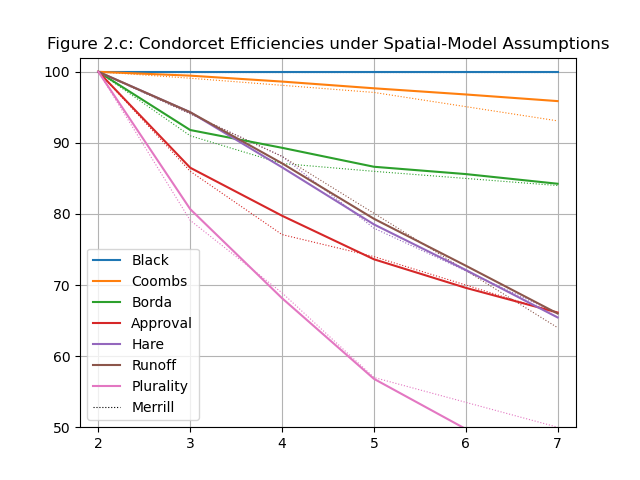
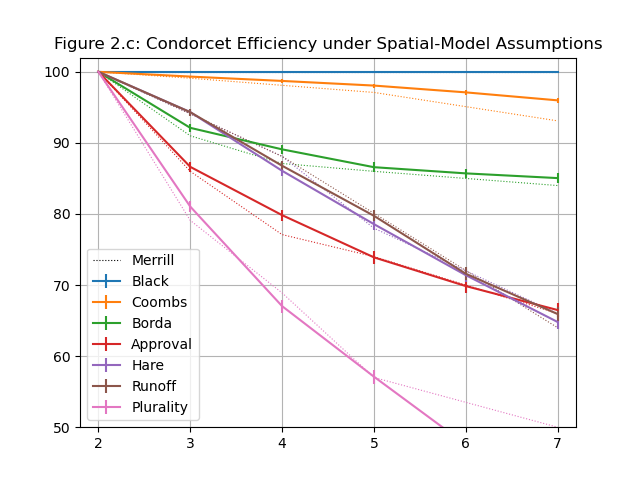
Convert error from absolute to relative
proportion_ci outputs absolute values, but plt.errorbar requires
values relative to the original data.

Update results images

diff --git a/examples/merrill_1984_fig_2c_2d.py b/examples/merrill_1984_fig_2c_2d.py
@@ -142,10 +142,14 @@ for fig, disp, ymin, orig in (('2.c', 1.0, 50, merrill_fig_2c),
                    'Plurality'):
         x, y = zip(*sorted(count[method].items()))
         CE = np.array(y)/y_cw
+
+        # Add 95% confidence interval error bars (Clopper-Pearson exact method)
         ci = np.empty((2, len(y)))
         for i in range(len(y)):
             ci[:, i] = binomtest(y[i], y_cw[i]).proportion_ci()
-        plt.errorbar(x, CE*100, ci*100, fmt='-', label=method)
+        yerr = ci - CE
+        yerr[0] = -yerr[0]
+        plt.errorbar(x, CE*100, yerr*100, fmt='-', label=method)
         table.append([method, *CE*100])
 
     print(tabulate(table, ["Method", *x], tablefmt="pipe", floatfmt='.1f'))
